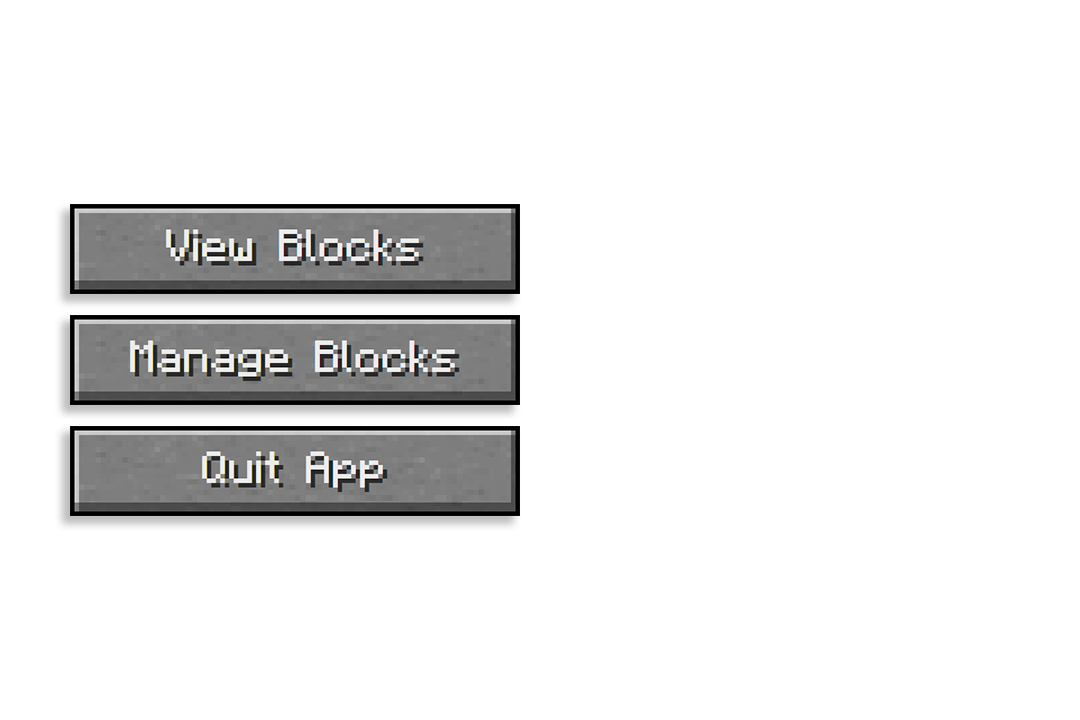
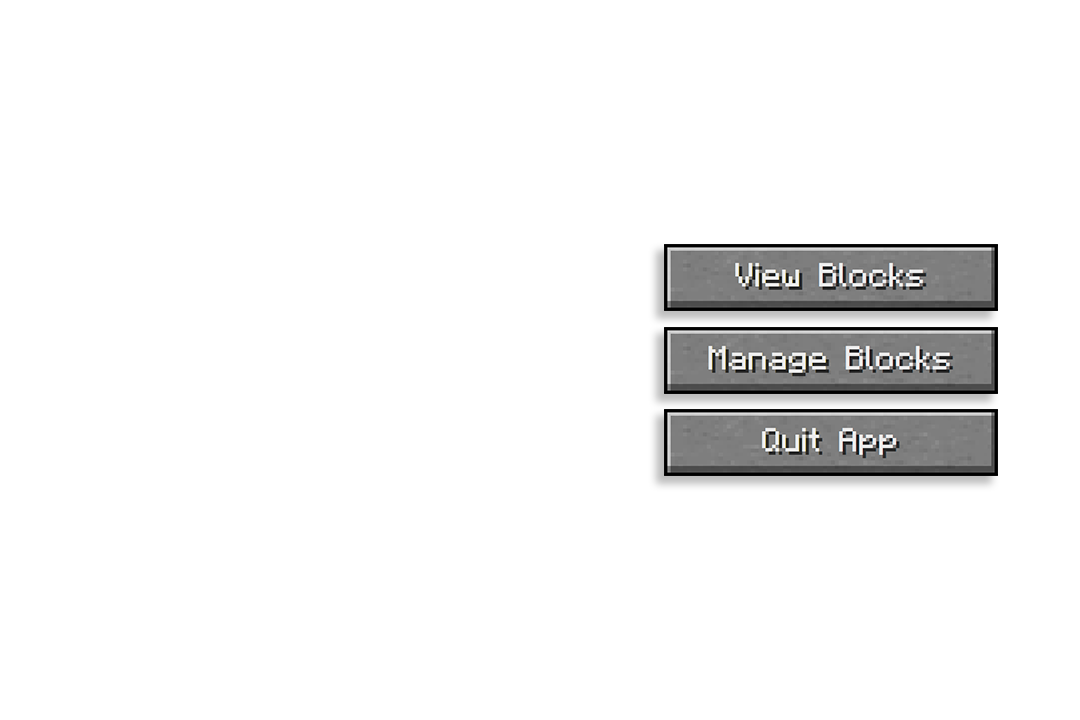
update

Changed region(s): [[0.0306, 0.275, 0.4889, 0.7333], [0.5806, 0.3361, 0.9472, 0.6722]]

diff --git a/Main.java b/Main.java
@@ -127,24 +127,24 @@ public class Main {
     }
 
     private static void handleClickEvent(int x, int y) {
-        if (isOverlayTopSelected = isWithinButtonRange(x, y, 70, 518, 204, 294)) {
+        if (isOverlayTopSelected = isWithinButtonRange(x, y, 665, 909, 244, 310)) {
             // Close the current JFrame
             //JFrame currentFrame = (JFrame) SwingUtilities.getWindowAncestor(canvasPanel);
             //currentFrame.dispose();
             viewPanel();
-        } else if (isOverlayMiddleSelected = isWithinButtonRange(x, y, 70, 518, 315, 405)) {
+        } else if (isOverlayMiddleSelected = isWithinButtonRange(x, y, 665, 909, 329, 393)) {
             viewPanel2();
             
-        } else if (isOverlayBottomSelected = isWithinButtonRange(x, y, 70, 518, 425, 515)) {
+        } else if (isOverlayBottomSelected = isWithinButtonRange(x, y, 665, 909, 409, 476)) {
             System.exit(0);
         }
 
     }
 
     private static void updateOverlaySelection(int mouseX, int mouseY) {
-        isOverlayTopSelected = isWithinButtonRange(mouseX, mouseY, 70, 518, 204, 294);
-        isOverlayMiddleSelected = isWithinButtonRange(mouseX, mouseY, 70, 518, 315, 405);
-        isOverlayBottomSelected = isWithinButtonRange(mouseX, mouseY, 70, 518, 425, 515);
+        isOverlayTopSelected = isWithinButtonRange(mouseX, mouseY, 665, 909, 244, 310);
+        isOverlayMiddleSelected = isWithinButtonRange(mouseX, mouseY, 665, 909, 329, 393);
+        isOverlayBottomSelected = isWithinButtonRange(mouseX, mouseY, 665, 909, 409, 476);
     }
 
     private static boolean isWithinButtonRange(int x, int y, int minX, int maxX, int minY, int maxY) {
